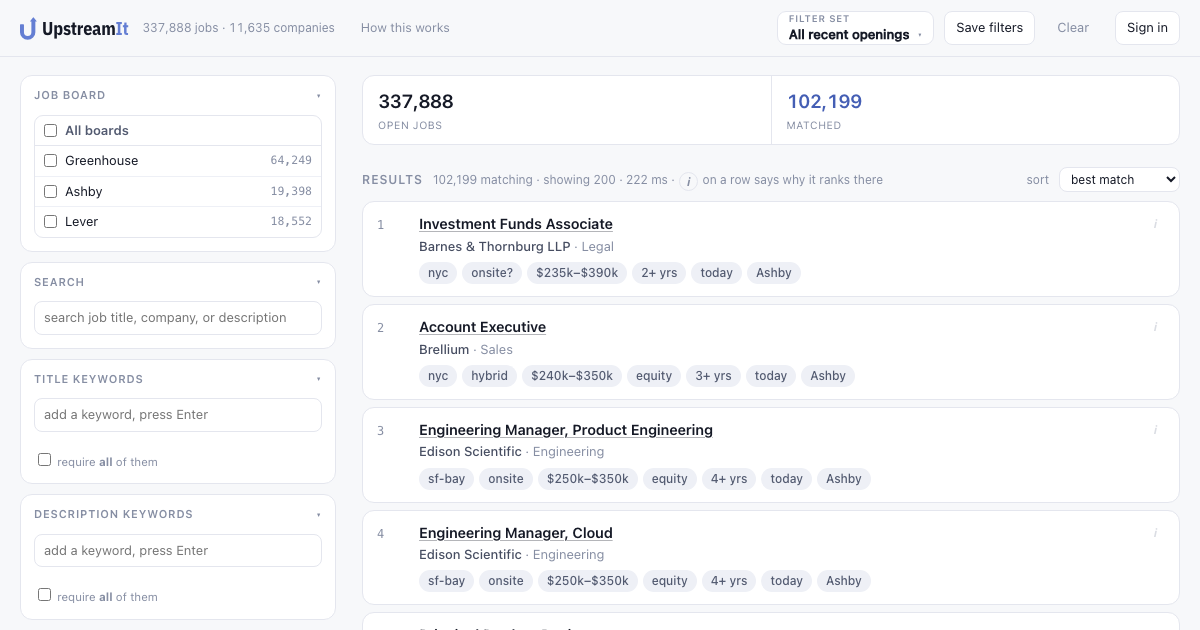
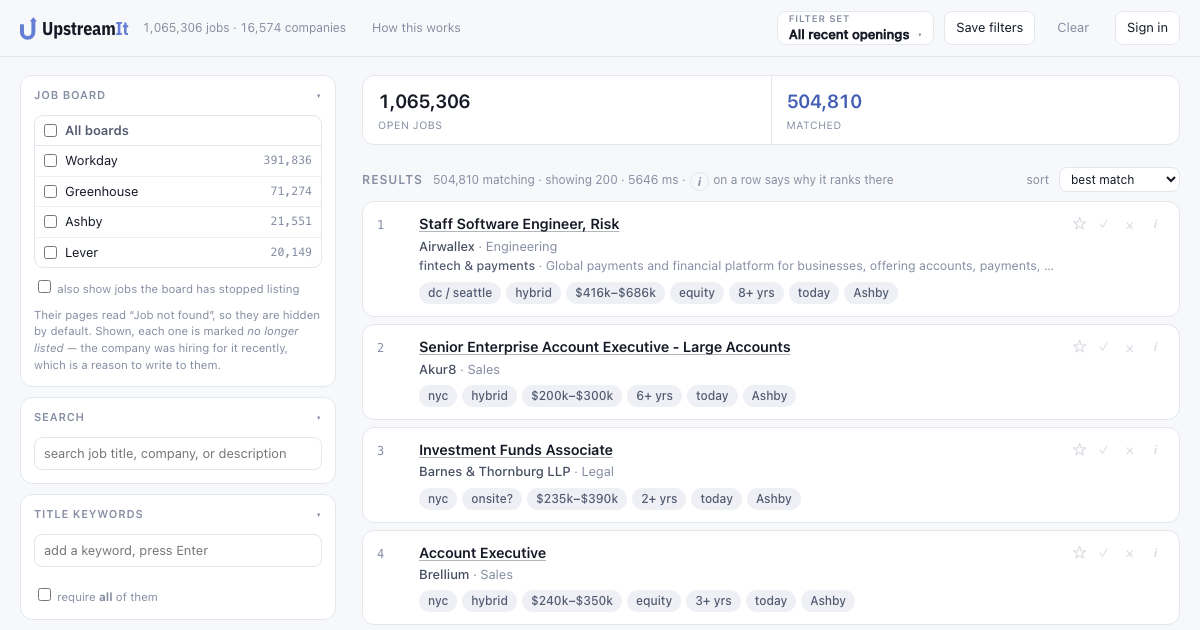
Point the link preview at the corpus the site actually serves
The Open Graph card still advertised "330,000+ open jobs" over three ATS
names, and its image was a screenshot taken the day it was written, with
337,888 in the stat tile. The board now serves 1,065,306 open jobs from
16,574 companies across four boards; Workday arrived after the card was
made. Anyone sharing the link was quoting a number a third of the real
one, and the picture underneath agreed with the wrong number.

The image is a fresh 1200x630 capture of the live board, so the tile,
the board list and the counts come from the same day as the caption.
og:image and twitter:image gain ?v=2 because Facebook, Twitter, Slack
and iMessage key their preview caches on the image URL; without a new
URL they would keep serving the old screenshot indefinitely.

diff --git a/app/index.html b/app/index.html
@@ -9,19 +9,19 @@
 <link rel="apple-touch-icon" href="/apple-touch-icon.png?v=2">
 <link rel="manifest" href="/site.webmanifest">
 <meta name="theme-color" content="#4c6acd">
-<meta name="description" content="UpstreamIt reads companies' own ATS hiring APIs — Ashby, Greenhouse, Lever — and filters 330,000+ open jobs with criteria that never exclude a posting for what it does not say.">
+<meta name="description" content="UpstreamIt reads companies' own ATS hiring APIs — Ashby, Greenhouse, Lever, Workday — and filters 1,000,000+ open jobs with criteria that never exclude a posting for what it does not say.">
 <meta property="og:type" content="website">
 <meta property="og:site_name" content="UpstreamIt">
-<meta property="og:title" content="UpstreamIt — 330,000+ open jobs, read from the companies' own hiring APIs">
-<meta property="og:description" content="UpstreamIt reads companies' own ATS hiring APIs — Ashby, Greenhouse, Lever — and filters 330,000+ open jobs with criteria that never exclude a posting for what it does not say.">
+<meta property="og:title" content="UpstreamIt — 1,000,000+ open jobs, read from the companies' own hiring APIs">
+<meta property="og:description" content="UpstreamIt reads companies' own ATS hiring APIs — Ashby, Greenhouse, Lever, Workday — and filters 1,000,000+ open jobs with criteria that never exclude a posting for what it does not say.">
 <meta property="og:url" content="https://upstreamit.io/">
-<meta property="og:image" content="https://upstreamit.io/og.png">
+<meta property="og:image" content="https://upstreamit.io/og.png?v=2">
 <meta property="og:image:width" content="1200">
 <meta property="og:image:height" content="630">
 <meta name="twitter:card" content="summary_large_image">
-<meta name="twitter:title" content="UpstreamIt — 330,000+ open jobs, read from the companies' own hiring APIs">
-<meta name="twitter:description" content="UpstreamIt reads companies' own ATS hiring APIs — Ashby, Greenhouse, Lever — and filters 330,000+ open jobs with criteria that never exclude a posting for what it does not say.">
-<meta name="twitter:image" content="https://upstreamit.io/og.png">
+<meta name="twitter:title" content="UpstreamIt — 1,000,000+ open jobs, read from the companies' own hiring APIs">
+<meta name="twitter:description" content="UpstreamIt reads companies' own ATS hiring APIs — Ashby, Greenhouse, Lever, Workday — and filters 1,000,000+ open jobs with criteria that never exclude a posting for what it does not say.">
+<meta name="twitter:image" content="https://upstreamit.io/og.png?v=2">
 <link rel="preconnect" href="https://fonts.googleapis.com">
 <link rel="preconnect" href="https://fonts.gstatic.com" crossorigin>
 <link href="https://fonts.googleapis.com/css2?family=IBM+Plex+Mono:wght@400;500&family=IBM+Plex+Sans+Condensed:wght@600;700&family=IBM+Plex+Sans:wght@400;500;600&display=swap" rel="stylesheet">
@@ -148,7 +148,7 @@
       <div class="body">
         <div class="options" id="ats-options"></div>
         <label class="hint"><input type="checkbox" id="include-unlisted"> also show jobs the board has stopped listing</label>
-        <div class="hint">Their pages read “Job not found”, so they are hidden by default. Shown, each one is marked <em>no longer listed</em> — the company was hiring for it recently, which is a reason to write to them.</div>
+        <div class="hint">Their pages read “Job not found”, so they are hidden by default.</div>
       </div>
     </section>
 

diff --git a/app/methodology.html b/app/methodology.html
@@ -15,13 +15,13 @@
 <meta property="og:title" content="How UpstreamIt is built">
 <meta property="og:description" content="How UpstreamIt is built: where the jobs come from, what gets inferred from them, and what every filter does with a posting that says nothing.">
 <meta property="og:url" content="https://upstreamit.io/methodology">
-<meta property="og:image" content="https://upstreamit.io/og.png">
+<meta property="og:image" content="https://upstreamit.io/og.png?v=2">
 <meta property="og:image:width" content="1200">
 <meta property="og:image:height" content="630">
 <meta name="twitter:card" content="summary_large_image">
 <meta name="twitter:title" content="How UpstreamIt is built">
 <meta name="twitter:description" content="How UpstreamIt is built: where the jobs come from, what gets inferred from them, and what every filter does with a posting that says nothing.">
-<meta name="twitter:image" content="https://upstreamit.io/og.png">
+<meta name="twitter:image" content="https://upstreamit.io/og.png?v=2">
 <link rel="preconnect" href="https://fonts.googleapis.com">
 <link rel="preconnect" href="https://fonts.gstatic.com" crossorigin>
 <link href="https://fonts.googleapis.com/css2?family=IBM+Plex+Mono:wght@400;500&family=IBM+Plex+Sans+Condensed:wght@600;700&family=IBM+Plex+Sans:wght@400;500;600&display=swap" rel="stylesheet">
